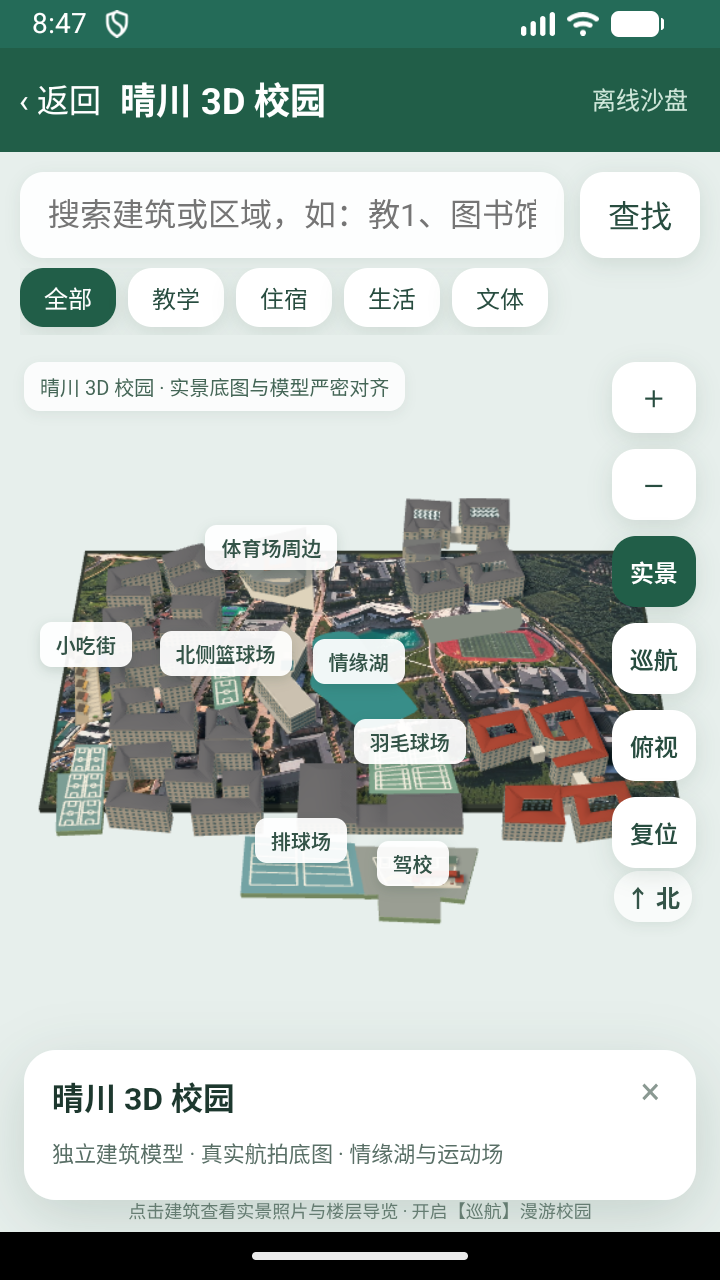
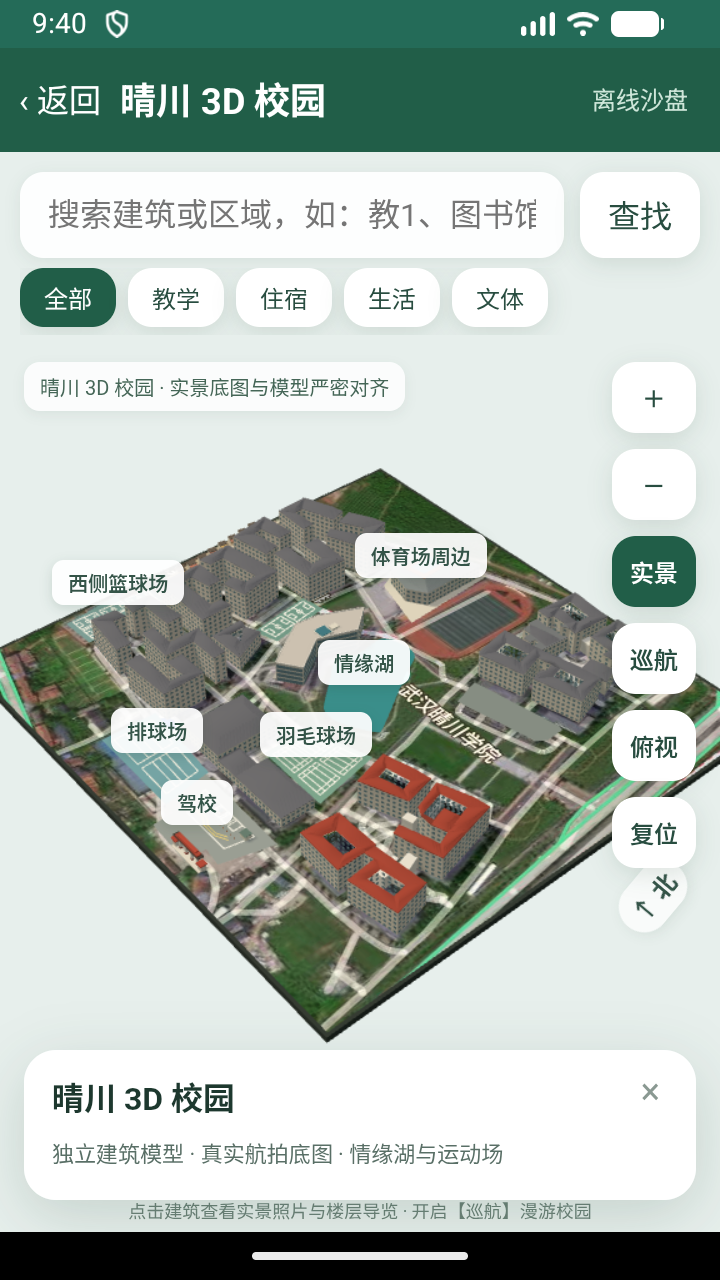
fix(campus3d): eliminate road-building collisions and align strictly with user white road network

diff --git a/app/src/main/assets/campus3d/campus-layout.js b/app/src/main/assets/campus3d/campus-layout.js
@@ -38,88 +38,79 @@ track:[[623,99],[675,102],[715,133],[732,181],[735,347],[719,400],[675,426],[604
 pitch:[[576,155],[698,153],[703,365],[574,365]],
 courts:[[[15,828],[83,820],[98,1000],[31,1010]],[[605,814],[781,787],[802,916],[630,935]],[[452,1094],[604,1100],[608,1200],[441,1190]]],
 roads:[
- // 1. 南门迎宾主轴与南部横向迎宾路 (晴川大门主入口)
- {width:6.5,points:[[818,1240],[818,1090]]},
+ // 1. 南门迎宾主轴与南部横向迎宾路
+ {width:6.5,points:[[818,1240],[818,1085]]},
  {width:6.0,points:[[818,1210],[1070,1210],[1180,1255]]},
  {width:6.0,points:[[818,1210],[630,1210],[430,1210]]},
- {width:4.0,points:[[630,1210],[630,1070]]},
- {width:4.5,points:[[480,1210],[480,1035]]},
+ {width:4.0,points:[[630,1210],[630,1050]]},
+ {width:4.5,points:[[495,1210],[495,1050]]},
 
- // 2. 东西横贯主干大道 (串联生活区、中央广场与教学区)
- {width:6.0,points:[[140,1020],[340,1020],[480,1035],[640,1040],[704,1090],[818,1090],[900,1090],[1075,1090],[1220,1090]]},
+ // 2. 东西横贯主干大道 (完全在建筑物南侧外围主街通行，绝不穿墙)
+ {width:6.0,points:[[115,1035],[290,1035],[495,1045],[540,1050],[640,1050],[670,1050],[818,1085],[920,1085],[1070,1085],[1260,1085]]},
 
- // 3. 晴川广场核心路网与礼仪大道
- {width:4.8,points:[[704,1090],[704,740]]},
- {width:4.8,points:[[900,1090],[900,740]]},
- {width:5.0,points:[[704,740],[818,730],[900,740]]},
- {width:4.0,points:[[644,1150],[750,1210]]},
+ // 3. 晴川广场核心路网
+ {width:4.8,points:[[670,1050],[670,740]]},
+ {width:4.8,points:[[920,1085],[920,935],[880,915],[880,680]]},
+ {width:5.0,points:[[670,740],[780,730],[880,680]]},
 
- // 4. 教1-教4 教学组团多级路网
- {width:5.0,points:[[900,710],[1060,695],[1220,690]]},
- {width:5.0,points:[[900,1070],[1060,1070],[1220,1070]]},
- {width:5.0,points:[[900,710],[900,1070]]},
- {width:5.0,points:[[1220,690],[1220,1070]]},
- {width:4.0,points:[[900,895],[1060,895],[1220,895]]},
- {width:4.0,points:[[1060,695],[1060,895],[1060,1070]]},
- {width:3.2,points:[[920,830],[1040,830]]},
- {width:3.2,points:[[1080,830],[1200,830]]},
- {width:3.2,points:[[920,960],[1040,960]]},
- {width:3.2,points:[[1080,960],[1200,960]]},
+ // 4. 教学区 (教1-4) 外环主道 (100% 沿建筑外墙外围道路，完全避开墙体)
+ {width:5.0,points:[[880,680],[1040,670],[1250,660]]},
+ {width:5.0,points:[[920,1085],[1070,1085],[1260,1085]]},
+ {width:5.0,points:[[880,680],[880,915],[920,935],[920,1085]]},
+ {width:5.0,points:[[1250,660],[1260,1085]]},
+ {width:3.5,points:[[880,915],[940,915]]},
+ {width:3.5,points:[[1250,895],[1260,895]]},
 
- // 5. 情缘湖环湖观光大道 (全线闭合环路)
- {width:4.8,points:[[530,730],[600,750],[680,755],[760,735],[800,705]]},
- {width:4.8,points:[[800,705],[810,640],[770,560],[730,470]]},
- {width:4.8,points:[[730,470],[660,435],[570,440],[530,470]]},
- {width:4.8,points:[[530,470],[520,550],[515,630],[530,730]]},
- {width:3.6,points:[[515,630],[450,630],[450,540],[520,520]]},
- {width:4.5,points:[[680,755],[704,740]]},
+ // 5. 情缘湖 360° 环湖大道与滨水观光路
+ {width:4.8,points:[[530,730],[620,755],[700,755],[780,730],[805,690]]},
+ {width:4.8,points:[[805,690],[805,620],[765,540],[725,470]]},
+ {width:4.8,points:[[725,470],[650,440],[550,440]]},
+ {width:4.8,points:[[550,440],[470,550],[470,660],[530,730]]},
+ {width:4.5,points:[[700,755],[670,740]]},
 
- // 6. 东侧玉屏大道/光谷六路辅路 (校园东边界主通道)
+ // 6. 东侧玉屏大道/光谷六路辅道 (校园东边界主通道)
  {width:6.0,points:[[1250,30],[1260,350],[1275,700],[1285,1065],[1285,1150]]},
 
- // 7. 综1-综2-实1-实2 科技实验与综合办公区路网
- {width:4.8,points:[[760,45],[930,45],[1100,45]]},
- {width:4.8,points:[[760,365],[930,365],[1100,365]]},
- {width:4.8,points:[[760,45],[760,195],[760,365]]},
- {width:4.8,points:[[1100,45],[1100,195],[1100,365]]},
- {width:4.0,points:[[760,195],[930,195],[1100,195]]},
- {width:4.0,points:[[930,45],[930,195],[930,365]]},
- {width:4.0,points:[[780,365],[780,450],[930,450],[1080,450],[1080,365]]},
- {width:4.0,points:[[760,365],[730,470]]},
+ // 7. 科技实验与综合办公区 (实1, 实2, 综1, 综2)
+ {width:4.8,points:[[760,40],[930,40],[1110,40]]},
+ {width:4.8,points:[[760,375],[930,375],[1110,375]]},
+ {width:4.8,points:[[760,40],[760,195],[760,375]]},
+ {width:4.8,points:[[1110,40],[1110,195],[1110,375]]},
+ {width:3.8,points:[[760,195],[830,195]]},
+ {width:3.8,points:[[920,195],[940,195]]},
+ {width:3.8,points:[[1035,195],[1110,195]]},
+ {width:3.8,points:[[930,40],[930,195]]},
+ {width:4.0,points:[[780,375],[780,450],[930,450],[1080,450],[1080,375]]},
 
  // 8. 体育场馆区 (操场环路与体育馆周边)
- {width:4.5,points:[[520,85],[740,85]]},
- {width:4.5,points:[[520,435],[660,435],[740,435]]},
- {width:4.5,points:[[740,85],[740,435]]},
- {width:4.5,points:[[520,85],[520,435]]},
- {width:4.2,points:[[370,170],[520,170]]},
- {width:4.2,points:[[370,370],[520,370]]},
- {width:4.2,points:[[370,170],[370,370]]},
- {width:4.0,points:[[520,260],[540,260]]},
+ {width:4.5,points:[[520,85],[735,85]]},
+ {width:4.5,points:[[520,440],[725,440]]},
+ {width:4.5,points:[[735,85],[725,440]]},
+ {width:4.5,points:[[520,85],[520,440]]},
+ {width:4.2,points:[[360,140],[360,385]]},
+ {width:4.2,points:[[360,140],[520,140]]},
+ {width:4.2,points:[[360,385],[520,385]]},
 
- // 9. 宿舍生活区核心主干道与分支网
- {width:5.5,points:[[340,240],[340,390],[340,540],[340,690],[340,810],[340,930],[340,1020]]},
- {width:4.0,points:[[60,250],[340,250]]},
- {width:4.0,points:[[60,390],[340,390]]},
- {width:4.0,points:[[60,540],[340,540]]},
- {width:4.0,points:[[80,690],[340,690]]},
- {width:4.0,points:[[80,795],[340,795]]},
- {width:4.0,points:[[120,810],[340,810],[480,810]]},
- {width:4.0,points:[[120,930],[340,930],[480,930]]},
- {width:4.0,points:[[120,1020],[340,1020],[480,1020]]},
- {width:4.0,points:[[480,810],[480,1035]]},
+ // 9. 宿舍生活区多级路网 (完全依随楼间空地通道行走)
+ {width:4.0,points:[[50,240],[190,200],[300,175],[350,175]]},
+ {width:3.5,points:[[50,400],[70,400]]},
+ {width:4.0,points:[[50,545],[200,545],[350,545]]},
+ {width:3.5,points:[[195,405],[195,540]]},
+ {width:5.0,points:[[350,175],[350,380],[350,545],[350,680],[420,680],[420,805]]},
+ {width:3.5,points:[[75,725],[105,725]]},
+ {width:3.5,points:[[75,805],[130,805]]},
+ {width:3.8,points:[[322,805],[322,930]]},
+ {width:3.2,points:[[115,930],[135,930]]},
+ {width:3.2,points:[[460,940],[490,940]]},
+ {width:4.5,points:[[495,805],[495,1045]]},
 
- // 10. 西侧商业街/小吃街
- {width:4.5,points:[[60,250],[60,540]]},
- {width:4.5,points:[[60,540],[80,560],[80,795]]},
- {width:4.5,points:[[80,795],[120,810],[120,1020]]},
+ // 10. 西侧商业街/小吃街 (完全沿外沿边缘道路)
+ {width:4.5,points:[[50,240],[50,400],[50,545],[75,555],[75,715],[95,795],[115,925],[115,1035]]},
 
- // 11. 食堂、超市、小剧场、球场、驾校联络线
- {width:4.2,points:[[480,890],[640,890]]},
- {width:4.2,points:[[640,890],[640,1040]]},
- {width:4.0,points:[[640,950],[704,950],[900,950]]},
- {width:4.0,points:[[340,690],[450,690],[530,730]]},
- {width:4.0,points:[[730,470],[900,500],[1100,500],[1275,500]]}
+ // 11. 食堂、超市、小剧场联络线
+ {width:4.0,points:[[495,890],[540,890]]},
+ {width:4.0,points:[[645,890],[670,890]]},
+ {width:4.2,points:[[920,935],[920,1085]]}
 ]};
 layout.world=p=>p.map(v=>v/4);
 layout.bilinear=(quad,u,v)=>[0,1].map(k=>(1-u)*(1-v)*quad[0][k]+u*(1-v)*quad[1][k]+u*v*quad[2][k]+(1-u)*v*quad[3][k]);

diff --git a/app/src/main/assets/campus3d/campus-scene.js b/app/src/main/assets/campus3d/campus-scene.js
@@ -211,14 +211,16 @@ cruiseBtn.onclick=function(){
 
 let currentGroundMode='schematic';
 const modeBtn=document.getElementById('mode');
+function toggleGroundMode(){
+ currentGroundMode=currentGroundMode==='schematic'?'aerial':'schematic';
+ if(window.setGroundMode)window.setGroundMode(currentGroundMode);
+ modeBtn.textContent=currentGroundMode==='aerial'?'实景':'沙盘';
+ modeBtn.classList.toggle('active',currentGroundMode==='aerial');
+}
 if(modeBtn){
  modeBtn.textContent='沙盘';
- modeBtn.onclick=()=>{
-  currentGroundMode=currentGroundMode==='schematic'?'aerial':'schematic';
-  if(window.setGroundMode)window.setGroundMode(currentGroundMode);
-  modeBtn.textContent=currentGroundMode==='aerial'?'实景':'沙盘';
-  modeBtn.classList.toggle('active',currentGroundMode==='aerial');
- };
+ modeBtn.addEventListener('click',toggleGroundMode);
+ modeBtn.addEventListener('touchend',e=>{e.preventDefault();toggleGroundMode();});
 }
 
 const pointers=new Map();let down=null,moved=false,pinch=0;
